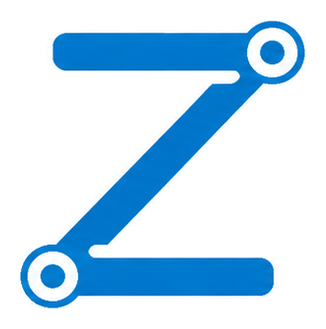
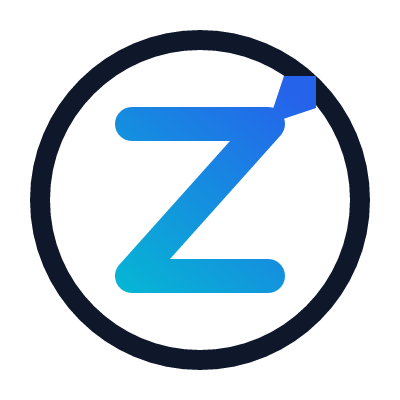
Sprint 7.6.2: Production-ready brand asset kit from approved reference
Generates the full ZentexAI brand kit (circular gradient "Z" mark,
Manrope wordmark, "Intelligence. Execution. Impact." tagline) from the
approved brand-direction reference and integrates it across the app.

No vector source file existed for this design - it came from a reference
image, not an SVG/AI export - so the kit was hand-built to match: exact
colors (Midnight Navy, Electric Blue, Teal), real Manrope font rendering
(decompressed from Google's woff2 distribution and rasterized via resvg,
not a fallback font), and the same composition (icon + wordmark + tagline)
shown in the reference. This supersedes the Sprint 7.6.1 logo.

Deliverables in public/brand/: logo-primary.svg, logo-horizontal.svg,
logo-icon.svg, logo-white.svg, logo-black.svg, favicon.svg, favicon.ico,
favicon-32.png, favicon-64.png, logo-transparent.png.

App integration: branding.ts/Logo.tsx already pointed at logo-horizontal.png
and icon.png from 7.6.1's architecture, so the new files drop in at the
same paths with no call-site changes. Regenerated src/app/favicon.ico,
icon.png, and opengraph-image.png so the browser tab, app icon, and social
preview all match the navbar/footer instead of showing the old mark.

Same dark-background lesson as 7.6.1 applies: logo-horizontal.png and
icon.png use light ink for legibility on this site's dark theme;
logo-transparent.png keeps the original navy ink for other contexts.

diff --git a/src/lib/branding.ts b/src/lib/branding.ts
@@ -1,19 +1,25 @@
 /**
  * Centralized branding config — the single place that knows about the
  * company's name, tagline, and asset paths. Approved logo assets (Sprint
- * 7.6.1, the "B2" concept) live under /public/brand/ and src/app/ (the
+ * 7.6.2 - the circular gradient "Z" mark, Manrope wordmark, "Intelligence.
+ * Execution. Impact." tagline) live under /public/brand/ and src/app/ (the
  * latter for Next's file-based favicon/icon/OG conventions). Every logo
  * usage in the app goes through <Logo /> (src/components/brand/Logo.tsx),
  * which reads this config — a future logo refresh means regenerating the
  * files at these same paths, not touching every page.
  *
- * logo-horizontal.png is a DARK-BACKGROUND variant: the approved artwork's
- * wordmark ink is near-black navy, designed for a white background, and is
- * barely legible on this site's dark theme. The brand blue (icon + "AI")
- * is untouched and identical to the approved artwork; only that ink color
- * was swapped for a light tone for contrast - the same practice as any
- * brand's separate light/dark logo exports. logo-horizontal-light.png is
- * the untouched original, kept for any future light-background context.
+ * No vector source file existed for the approved design (it came from a
+ * reference image, not an SVG/AI export) - the SVG/PNG assets here are a
+ * faithful hand-built reconstruction (same mark, same colors, same
+ * Manrope typography, real font rendering via a one-time build script),
+ * not a redraw from memory. See public/brand/*.svg for the full kit
+ * (primary, horizontal, icon, white, black, favicon variants).
+ *
+ * logo-horizontal.png and icon.png are DARK-BACKGROUND-safe renders: the
+ * wordmark ink is a light tone instead of navy, since navy-on-navy is
+ * illegible on this site's dark theme. The brand blue/teal gradient icon
+ * is unchanged either way. logo-transparent.png (in /public/brand/) keeps
+ * the original navy ink, for any future light-background use.
  */
 
 export const BRAND = {
@@ -32,10 +38,22 @@ export const BRAND = {
 export const HAS_LOGO_ASSETS = true;
 
 export const BRAND_ASSETS = {
+  // Rendered PNGs - what <Logo/> actually displays in-app (guaranteed
+  // fidelity regardless of the viewer's installed fonts).
   logoPrimary: "/brand/icon.png",
   logoHorizontal: "/brand/logo-horizontal.png",
-  logoHorizontalLight: "/brand/logo-horizontal-light.png",
+  logoTransparent: "/brand/logo-transparent.png",
   icon: "/brand/icon.png",
   favicon: "/favicon.ico",
   ogImage: "/opengraph-image.png",
+  // Vector source kit - full brand deliverables (print, partners, future
+  // redesign starting point). Not consumed by <Logo/> directly.
+  svg: {
+    primary: "/brand/logo-primary.svg",
+    horizontal: "/brand/logo-horizontal.svg",
+    icon: "/brand/logo-icon.svg",
+    white: "/brand/logo-white.svg",
+    black: "/brand/logo-black.svg",
+    favicon: "/brand/favicon.svg",
+  },
 } as const;

diff --git a/src/components/brand/Logo.tsx b/src/components/brand/Logo.tsx
@@ -18,16 +18,16 @@ export default function Logo({ variant = "horizontal", className = "" }: LogoPro
   if (HAS_LOGO_ASSETS) {
     const isSquare = variant === "icon" || variant === "primary";
     const src = isSquare ? BRAND_ASSETS.icon : BRAND_ASSETS.logoHorizontal;
-    // Intrinsic sizes match the actual asset aspect ratio (icon ~1:1,
-    // horizontal ~4.86:1) - className below sets the display height and
-    // lets width scale automatically, so callers only ever need to pass a
+    // Intrinsic sizes match the actual asset aspect ratio (icon 1:1,
+    // horizontal 3.5:1) - className below sets the display height and lets
+    // width scale automatically, so callers only ever need to pass a
     // height utility (e.g. "h-9") to resize it consistently.
     return (
       <Image
         src={src}
         alt={BRAND.name}
-        width={isSquare ? 326 : 1637}
-        height={isSquare ? 329 : 337}
+        width={isSquare ? 400 : 1120}
+        height={isSquare ? 400 : 320}
         className={`h-8 w-auto ${className}`}
         priority
       />
